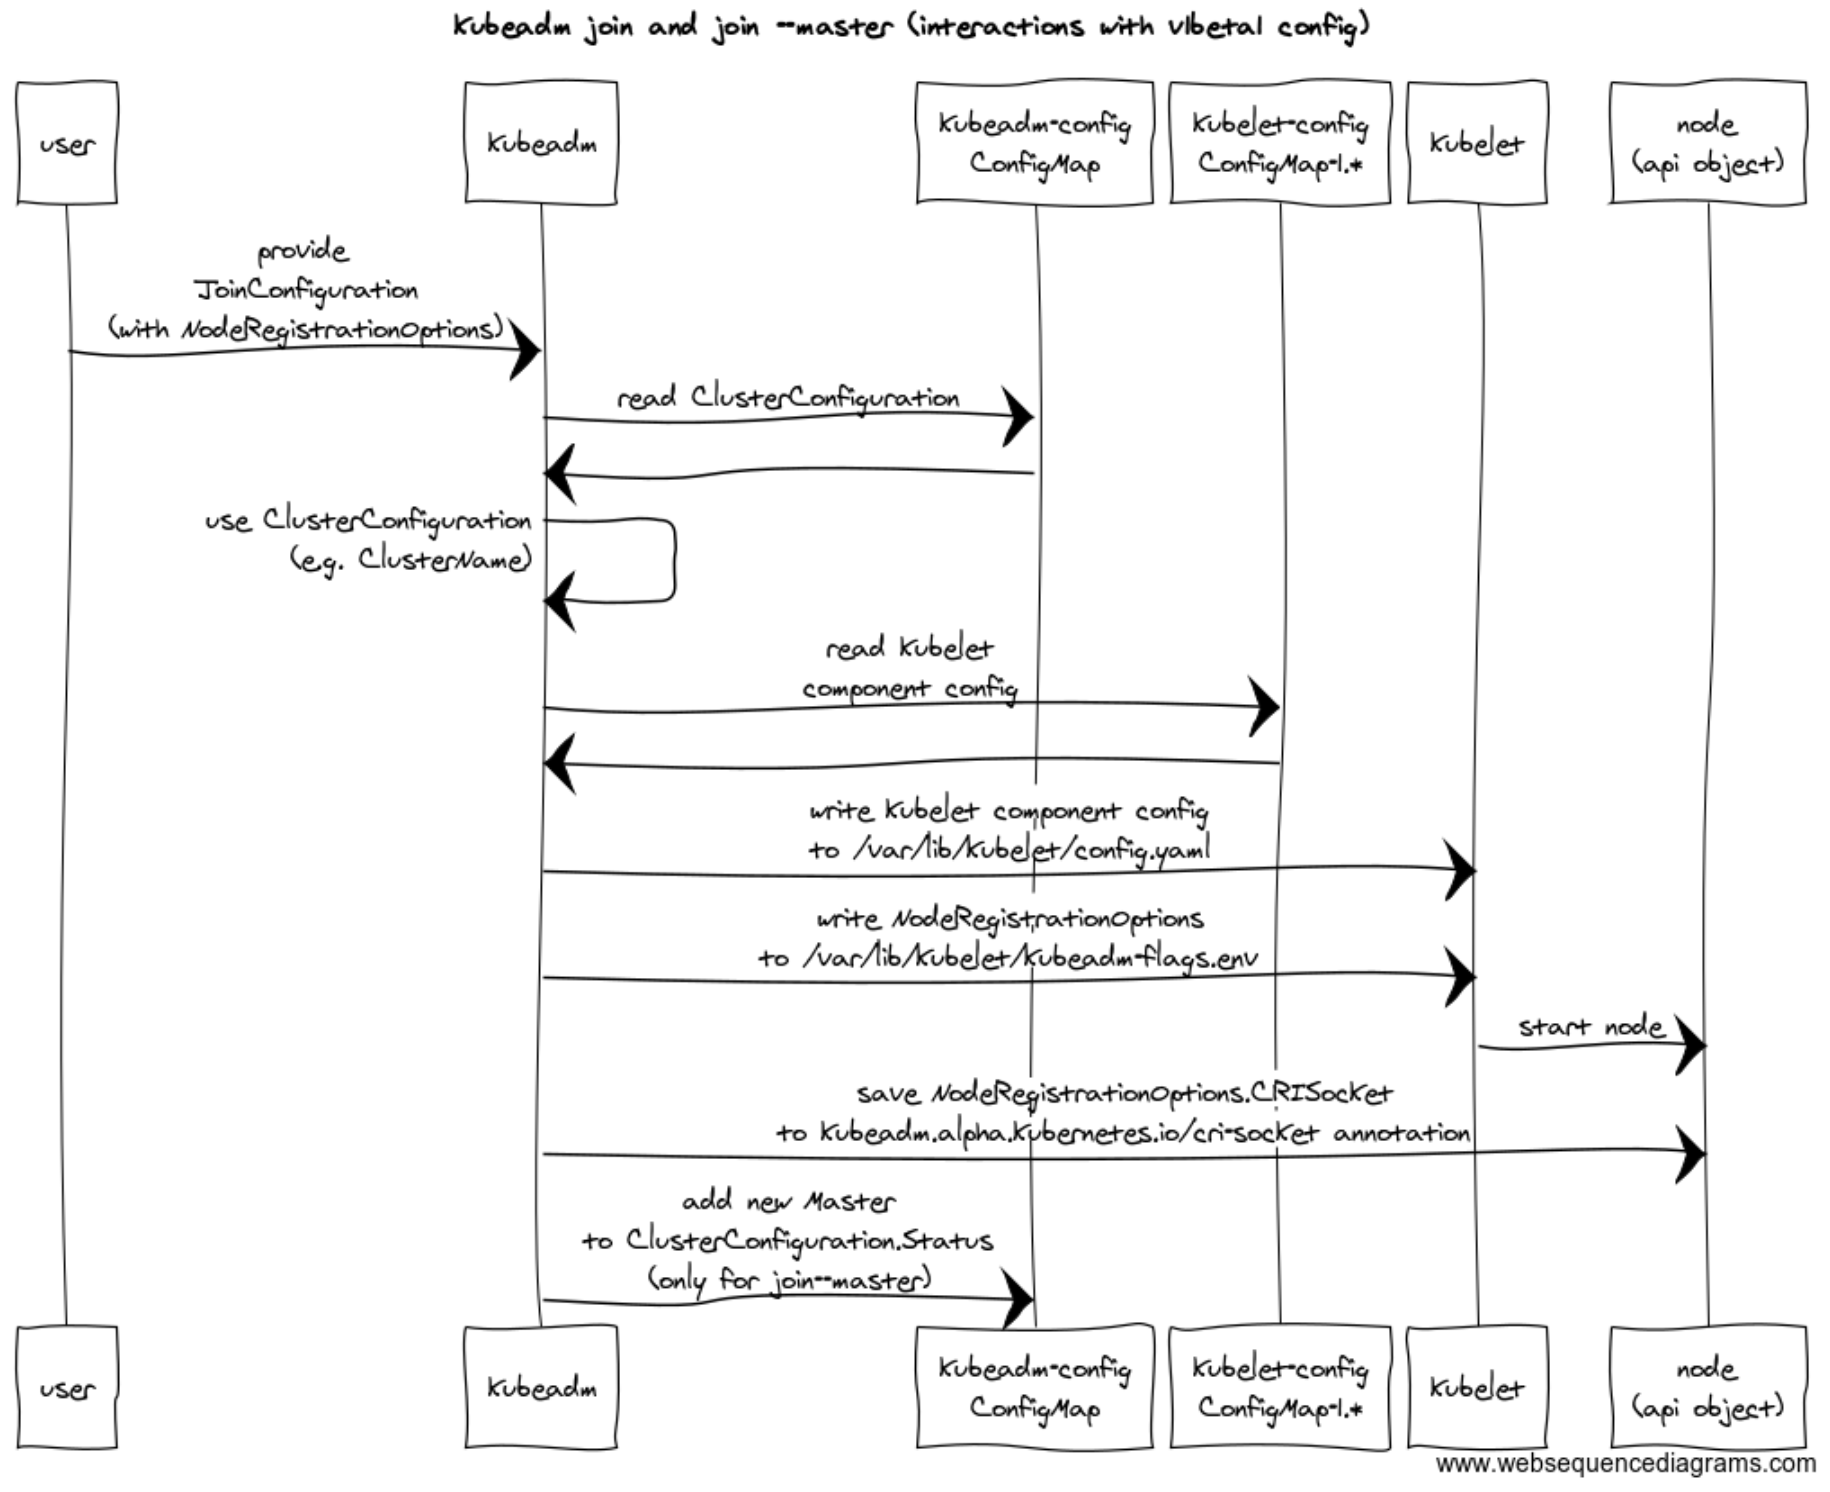
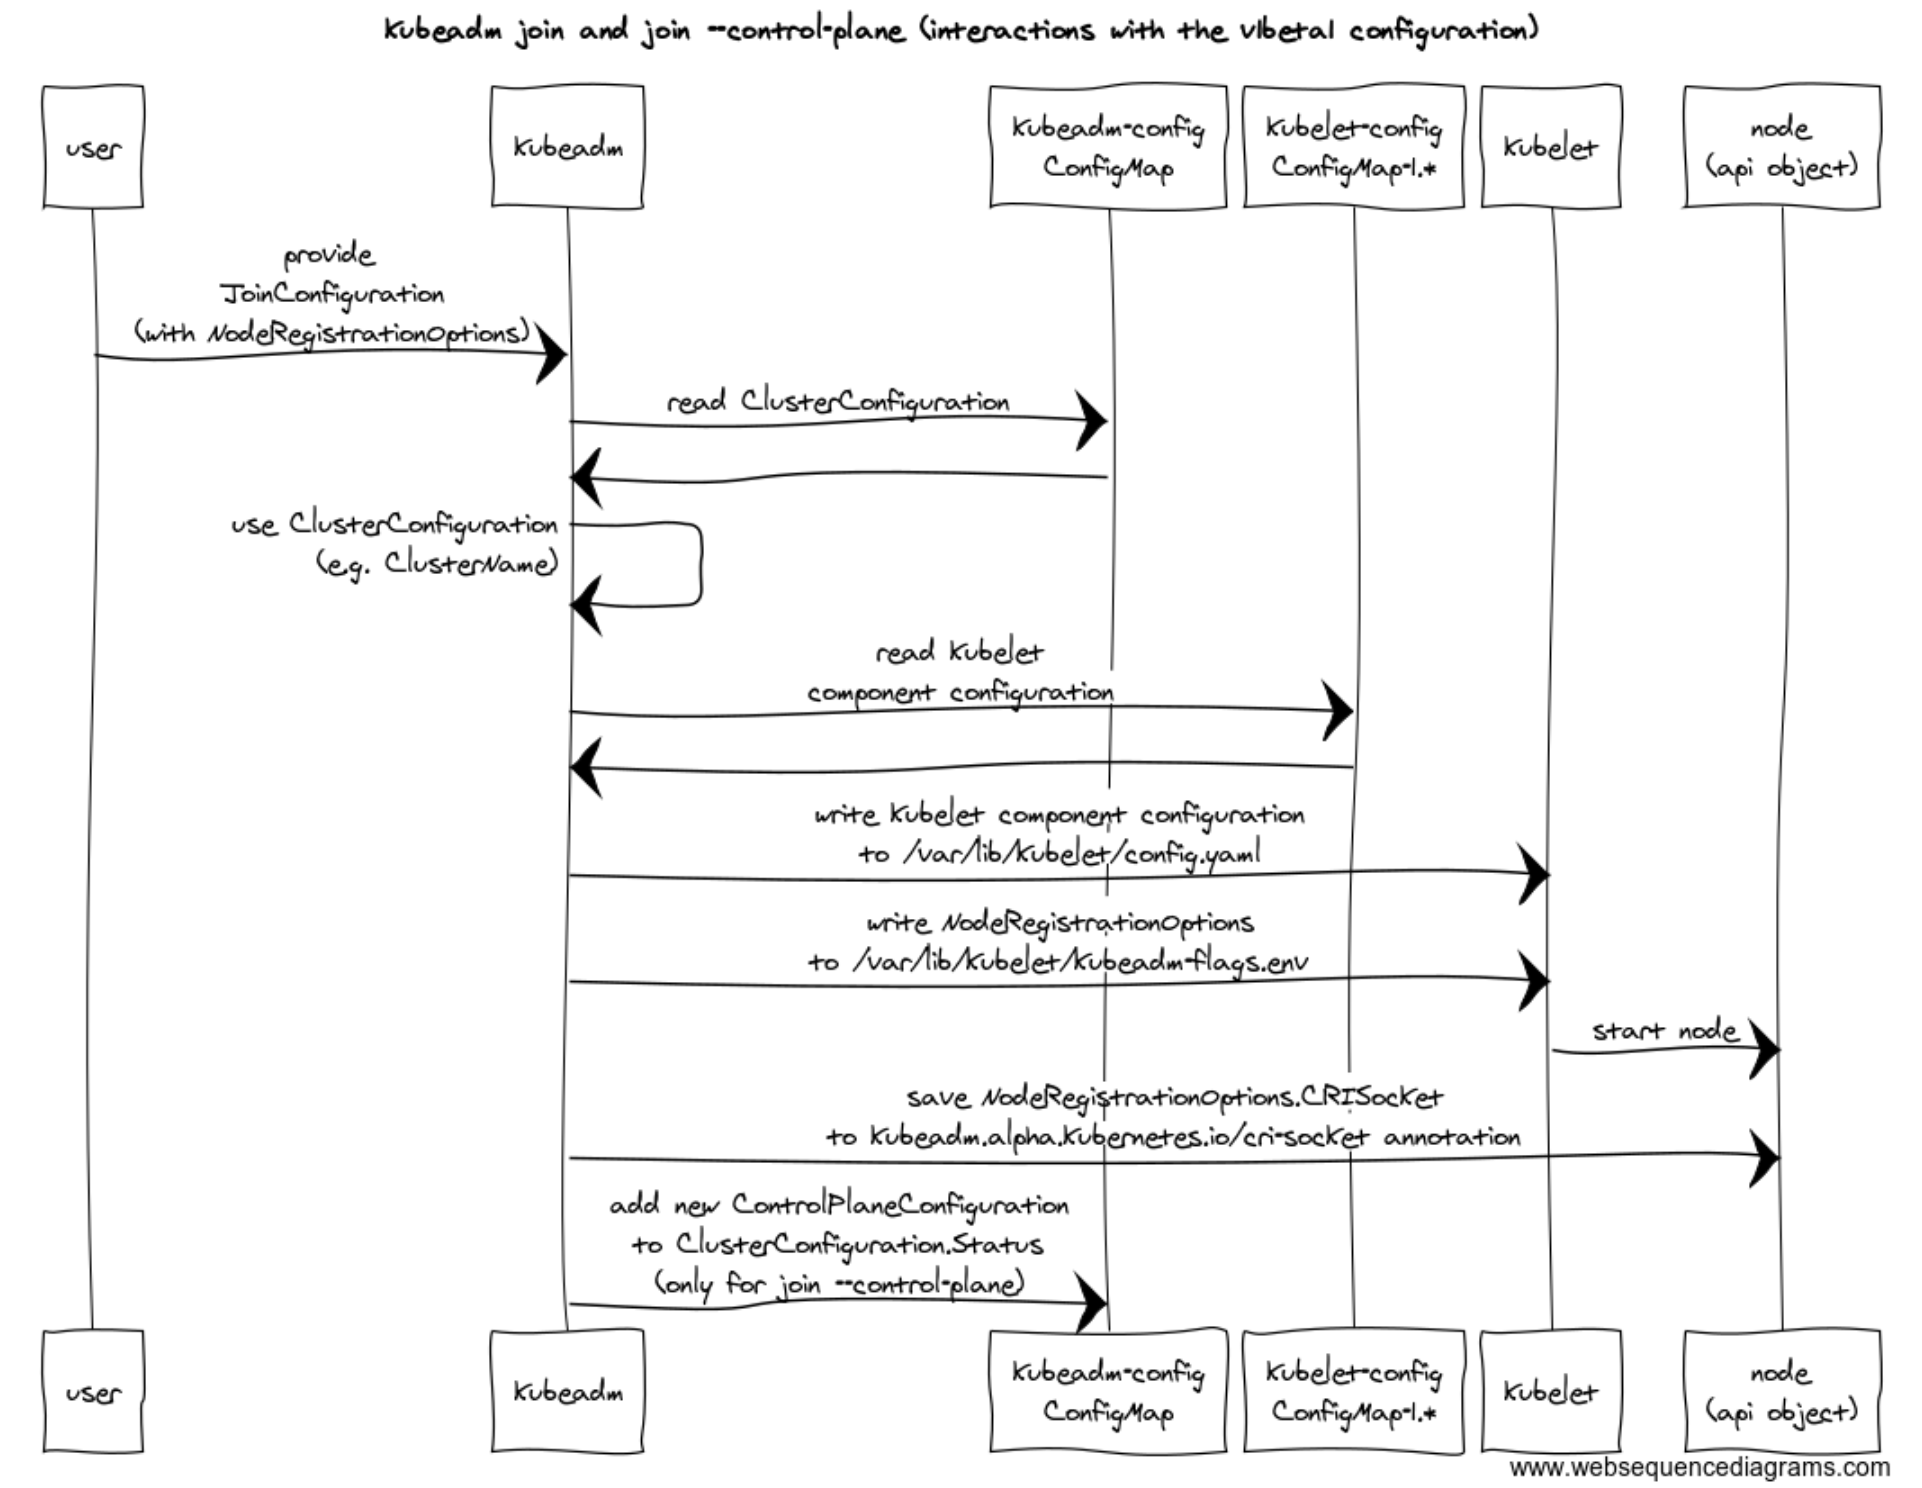
documentation for images

Changed region(s): [[0.0, 0.0, 0.9967, 1.0]]

diff --git a/sig-cluster-lifecycle/0023-documentation-for-images.md b/sig-cluster-lifecycle/0023-documentation-for-images.md
@@ -1,0 +1,148 @@
+
+
+# Documentation for images
+
+Open https://www.websequencediagrams.com/ and paste the spec for the desired image:
+
+- [kubeadm init](#kubeadm-init)
+- [kubeadm join (and join --control-plane)](#kubeadm-join-and-join---control-plane)
+- [kubeadm reset](#kubeadm-reset)
+- [kubeadm upgrade](#kubeadm-upgrade)
+- [kubeadm upgrade node](#kubeadm-upgrade-node)
+
+## kubeadm init
+
+```
+title kubeadm init (interactions with the v1beta1 configuration)
+
+participant "user" as u 
+participant "kubeadm" as k
+participant "kubelet" as kk
+participant "node\n(api object)" as n
+participant "kubeadm-config\nConfigMap" as cm
+participant "kubeproxy-config\nConfigMap" as kpcm 
+participant "kubelet-config\nConfigMap-1.*" as kcm
+
+u->k:provide\nInitConfiguration (with NodeRegistrationOptions, ControlPlaneConfiguration)\nClusterConfiguration\nkube-proxy component configuration\nkubelet component configuration 
+
+k->kk:write kubelet component configuration\nto /var/lib/kubelet/config.yaml
+k->kk:write NodeRegistrationOptions\nto /var/lib/kubelet/kubeadm-flags.env
+kk->n:start node
+k->n:save NodeRegistrationOptions.CRISocket\nto kubeadm.alpha.kubernetes.io/cri-socket annotation 
+
+k->k:use InitConfiguration\n(e.g. tokens)
+
+k->cm:save ClusterConfiguration
+k->cm:add Current ControlPlaneConfiguration to ClusterConfiguration.Status
+
+k->kpcm:save kube-proxy component configuration 
+k->kcm:save kubelet component configuration 
+```
+
+## kubeadm join (and join --control-plane)
+
+```
+title kubeadm join and join --control-plane (interactions with the v1beta1 configuration)
+
+participant "user" as u 
+participant "kubeadm" as k
+participant "kubeadm-config\nConfigMap" as cm
+participant "kubelet-config\nConfigMap-1.*" as kcm
+participant "kubelet" as kk
+participant "node\n(api object)" as n
+
+u->k:provide\nJoinConfiguration\n(with NodeRegistrationOptions) 
+
+k->cm:read ClusterConfiguration
+cm->k:
+k->k:use ClusterConfiguration\n(e.g. ClusterName)
+
+k->kcm:read kubelet\ncomponent configuration
+kcm->k:
+k->kk:write kubelet component configuration\nto /var/lib/kubelet/config.yaml
+k->kk:write NodeRegistrationOptions\nto /var/lib/kubelet/kubeadm-flags.env
+kk->n:start node
+k->n:save NodeRegistrationOptions.CRISocket\nto kubeadm.alpha.kubernetes.io/cri-socket annotation 
+
+k->cm:add new ControlPlaneConfiguration\nto ClusterConfiguration.Status\n(only for join --control-plane)
+```
+
+## kubeadm reset 
+
+```
+title kubeadm reset (interactions with the v1beta1 configuration)
+
+participant "user" as u 
+participant "kubeadm" as k
+participant "kubeadm-config\nConfigMap" as cm
+participant "node\n(api object)" as n
+
+
+u->k: 
+
+k->cm:read ClusterConfiguration
+cm->k:
+k->cm:remove ControlPlaneConfiguration\nfrom ClusterConfiguration.Status\n(only if the node hosts a control plane instance)
+
+k->n:read kubeadm.alpha.kubernetes.io/cri-socket annotation 
+n->k:
+k->k:use CRIsocket\nto delete containers
+```
+
+## kubeadm upgrade
+
+```
+title kubeadm upgrade apply (interactions with the v1beta1 configuration)
+
+participant "user" as u 
+participant "kubeadm" as k
+participant "kubeadm-config\nConfigMap" as cm
+participant "kubeproxy-config\nConfigMap" as kpcm 
+participant "kubelet-config\nConfigMap-1.*+1" as kcm
+participant "kubelet" as kk
+participant "node\n(api object)" as n
+
+u->k: UpgradeConfiguration
+note over u, n:Upgrade configuration should allow only well known changes to the cluster e.g. the change of custom images if used
+
+
+k->cm:read ClusterConfiguration
+cm->k:
+k->k:update\nClusterConfiguration\nusing api machinery
+k->cm:save updated ClusterConfiguration
+
+k->kpcm:read kube-proxy component configuration
+kpcm->k:
+k->k:update kube-proxy\ncomponent configuration\nusing api machinery
+k->kpcm:save updated kube-proxy component configuration
+note over kpcm, n:the updated kube-proxy component configuration will\nbe used by the updated kube-proxy DaemonSet 
+
+k->kcm:read kubelet component configuration
+kcm->k:
+k->k:update kubelet\ncomponent configuration\nusing api machinery
+k->kcm:save updated kubelet component configuration 
+k->kk:write kubelet component configuration\nto /var/lib/kubelet/config.yaml
+k->kk:write NodeRegistrationOptions\nto /var/lib/kubelet/kubeadm-flags.env
+kk->n:start node
+
+note over kcm, n:the updated kubelet component configuration\nwill be used by other nodes\nwhen running\nkubeadm upgrade nodes locally 
+
+```
+
+## kubeadm upgrade node
+
+```
+title kubeadm upgrade node (interactions with the v1beta1 configuration)
+
+participant "user" as u 
+participant "kubeadm" as k
+participant "kubelet-config\nConfigMap-1.*" as kcm
+participant "kubelet" as kk
+
+u->k: 
+
+k->kcm:read kubelet\ncomponent configuration
+kcm->k:
+k->kk:write kubelet component configuration\nto /var/lib/kubelet/config.yaml
+```
+
